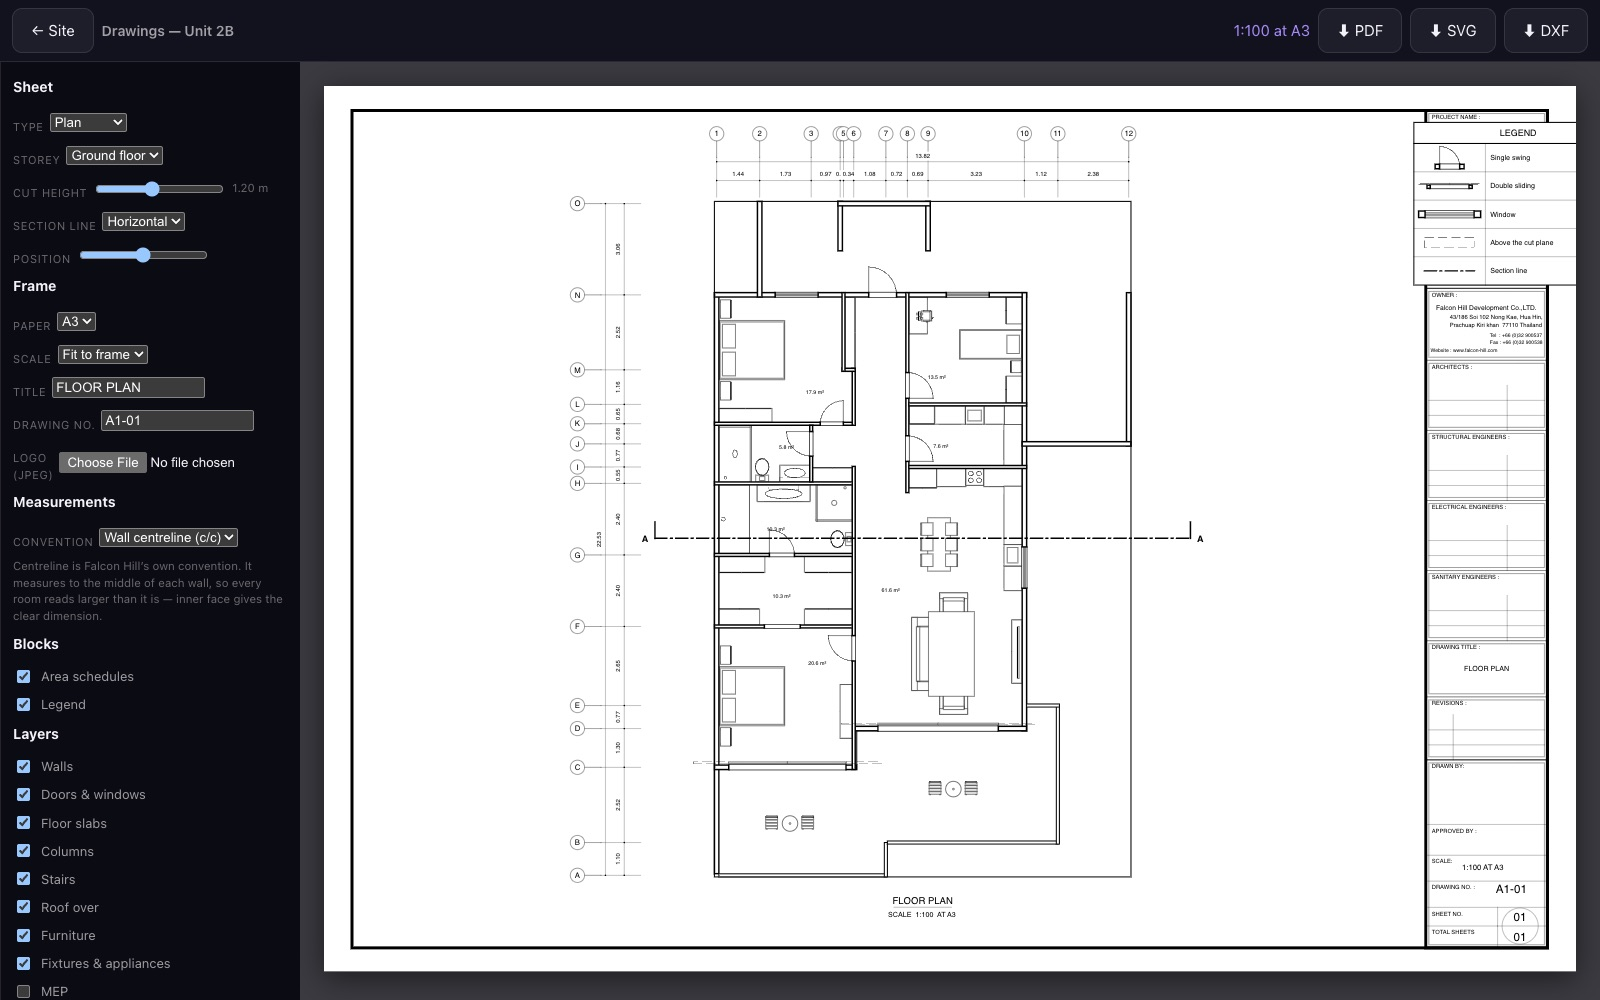
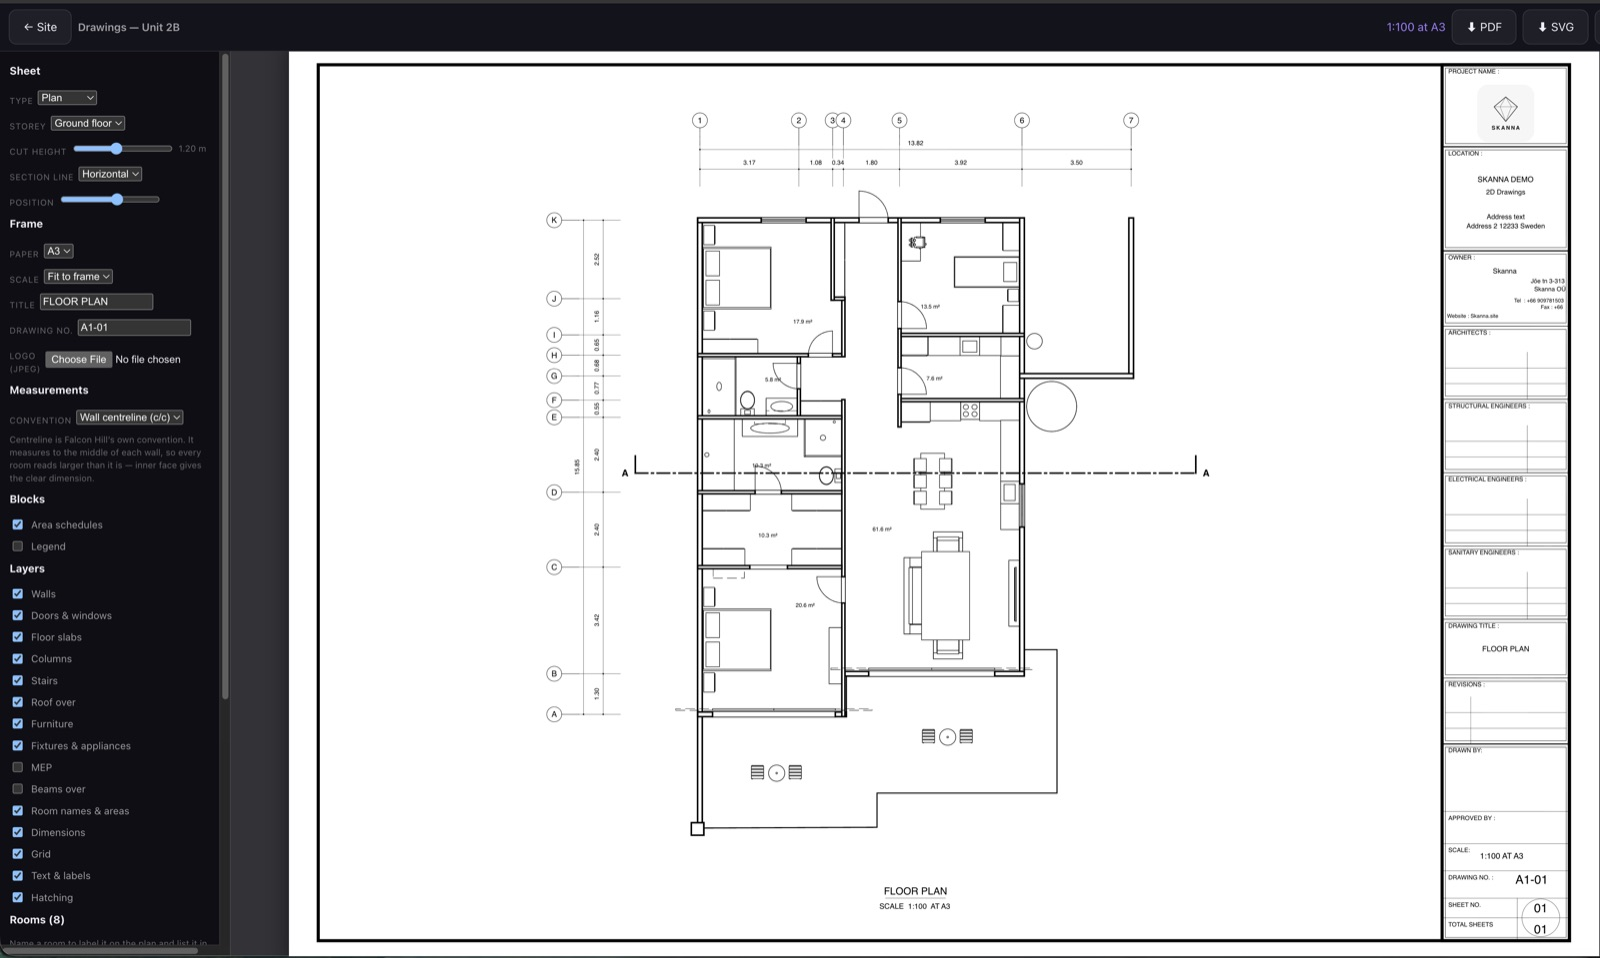
Fresh Skanna Web screenshots, and the authoring half of buyer choices
All five web-app images dated from 9 August and showed a flatter, emptier
product than the one that exists. Replaced with today's: the property
portal with a real site log behind it, BIM Author with the inspector open,
the assembly view looking out through the glazing to the terrace, and both
drawing sheets on Skanna's own title block.

The BIM Author shot happens to catch the "Offer choices for this surface"
panel, which is where the twin's curated materials are actually authored —
so the page now shows both halves of that feature, with a line tying the
two sections together.

diff --git a/index.html b/index.html
@@ -743,16 +743,19 @@
     <div class="shot-grid">
       <div class="shot-frame">
         <div class="chrome"><i></i><i></i><i></i><span>Skanna Web — the property portal</span></div>
-        <img src="assets/web-viewer.jpg" alt="The Skanna Web property page for a unit, with folders for scans, photos, panoramas, files and CAD models, and buttons for BIM Author, Drawings, Share Twin and Export Site" loading="lazy">
+        <img src="assets/web-viewer.jpg" alt="The Skanna Web property page for a site, with folders holding 13 scans, 7 photos and 18 panoramas, a dated site log of every scan, photo and pin added, and buttons for BIM Author, Drawings, Share Twin and Export Site" loading="lazy">
       </div>
       <div class="shot-frame">
         <div class="chrome"><i></i><i></i><i></i><span>Skanna Web — BIM Author</span></div>
-        <img src="assets/bim-author.jpg" alt="Skanna Web BIM Author: the 2D plan editor with walls, doors, windows, slabs, roofs, stairs, railings, columns, beams, items, finishes and MEP tools, the 3D model alongside it, and the scan loaded as a tracing reference" loading="lazy">
+        <img src="assets/bim-author.jpg" alt="Skanna Web BIM Author: the 2D plan editor with wall, door, window, slab, roof, stair, ramp, railing, column, beam, item, finish and MEP tools, the 3D model alongside it, and the inspector showing the selected slab's material, surface colour and a Buyer choices panel for offering the twin's viewer a set of finishes" loading="lazy">
       </div>
     </div>
+    <p class="ifc-note">Every surface you draw carries an <strong>Offer choices</strong>
+    button — that's where the material options further down this page come from. Put every
+    wall of a room in one set and the buyer restyles the room, not a wall.</p>
     <div class="shot-frame shot-wide">
       <div class="chrome"><i></i><i></i><i></i><span>Skanna Web — the finished IFC building model</span></div>
-      <img src="assets/ifc-assembly.jpg" alt="A completed IFC building model in the Skanna Web assembly view, with orbit, walk, measure and explorer tools and IFC and GLB export" loading="lazy">
+      <img src="assets/ifc-assembly.jpg" alt="The completed model in the Skanna Web assembly view, seen from the living room looking out through full-height glazing to a furnished terrace and the landscape beyond, with orbit, walk, measure and explorer tools and IFC and GLB export" loading="lazy">
     </div>
     <p class="ifc-note">However you started, you end up here: export the finished IFC and
     open it in SketchUp, Revit, Blender, or your web CAD platform of choice — to plan,
@@ -765,11 +768,11 @@
     <div class="shot-grid">
       <div class="shot-frame">
         <div class="chrome"><i></i><i></i><i></i><span>Drawings — A3 floor plan at 1:100</span></div>
-        <img src="assets/web-drawing-plan.jpg" alt="An A3 floor plan sheet generated from the building model, with dimension strings, grid bubbles, room areas, a door and window legend and a project title block, alongside the sheet settings panel" loading="lazy">
+        <img src="assets/web-drawing-plan.jpg" alt="An A3 floor plan sheet at 1:100 generated from the building model, with dimension strings, grid bubbles, room areas and a Skanna title block, alongside the sheet settings panel and its per-layer switches" loading="lazy">
       </div>
       <div class="shot-frame">
         <div class="chrome"><i></i><i></i><i></i><span>Drawings — section A-A at 1:50</span></div>
-        <img src="assets/web-drawing-section.jpg" alt="A generated A3 section sheet showing hatched cut walls, existing ground level and top of beam level annotations on a project title block" loading="lazy">
+        <img src="assets/web-drawing-section.jpg" alt="A generated A3 section sheet at 1:75 showing hatched cut walls, existing ground level and top of beam level annotations on a Skanna title block" loading="lazy">
       </div>
     </div>
   </section>
